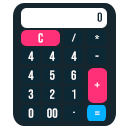
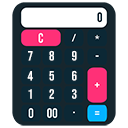
appearence adjust

diff --git a/styles.css b/styles.css
@@ -1,3 +1,12 @@
+:root {
+    --background-color: #091921;
+    --calculator-color: #0c2835;
+    --button-color: #19475c;
+    --math-button-color: #234f64;
+    --light-blue: #03b1ff;
+    --light-red: #ff3077;
+}
+
 * {
     margin: 0;
     padding: 0;
@@ -10,7 +19,29 @@ body {
     justify-content: center;
     align-items: center;
     min-height: 100vh;
-    background: #091921;
+    background: var(--background-color);
+}
+
+.exCalcLogo {
+    color: #fff;
+    display: flex;
+    align-items: center;
+    justify-content: center;
+    font-weight: 900;
+    opacity: 1;
+    background-color: var(--button-color);
+    border-radius: 5px;
+    font-family: 'Roboto', sans-serif;
+}.exCalcLogo a:hover {
+    opacity: .8;
+    transition: .2s;
+}.exCalcLogo i {
+    margin-right: 3px;
+}.exCalcLogo a {
+    opacity: .3;
+    color: #fff;
+    text-decoration: none;
+    outline: none;
 }
 
 .num {
@@ -20,17 +51,29 @@ body {
 .calculator {
     position: relative;
     display: grid;
-    background-color: #0c2835;
+    background-color: var(--calculator-color);
+    padding: 15px;
+    border-radius: 5px;
 }
 
-.calculator .value {
+.calculator .valueDiv {
     grid-column: span 4;
-    height: 100px;
+    height: 120px;
     text-align: right;
     border: none;
     outline: none;
-    padding: 15px;
+    padding: 0px;
     font-size: 18px;
+}
+
+.value {
+    height: 60px;
+    width: 240px;
+    margin-top: 15px;
+    text-align: right;
+    padding: 10px;
+    font-size: 25px;
+    border-radius: 5px;
 }
 
 .calculator span {
@@ -38,7 +81,7 @@ body {
     width: 60px;
     height: 60px;
     color: #fff;
-    background: #0c2835;
+    background: var(--button-color);
     place-items: center;
     border: 2px solid rgba(0,0,0,.1);
     font-size: 20px;
@@ -56,7 +99,9 @@ body {
 .calculator span.clear {
     grid-column: span 2;
     width: 120px;
-    background: #ff3077;
+    background: var(--light-red);
+    border-top-left-radius: 5px;
+    font-size: 25px;
 }
 
 .calculator span.plus {
@@ -65,11 +110,24 @@ body {
 }
 
 .calculator span.equal {
-    background: #03b1ff;
+    background: var(--light-blue);
+    border-bottom-right-radius: 5px;
+}
+
+.calculator span.key0 {
+    border-bottom-left-radius: 5px;
+}
+
+.calculator span.keyMult {
+    border-top-right-radius: 5px;
 }
 
 .calculator span.equal, span.plus, span.keySub, span.keyMult, span.keyDiv, span.keyDot {
     font-size: 30px;
+}
+
+span.keyDiv, span.keyMult, span.keySub, span.plus {
+    background-color: var(--math-button-color);
 }
 
 .calculator span.keyDot p {

diff --git a/index.html b/index.html
@@ -6,12 +6,22 @@
     <meta name="viewport" content="width=device-width, initial-scale=1.0">
     <link rel="stylesheet" href="styles.css">
     <title>exCalc</title>
+    <link rel="stylesheet" href="https://cdn.jsdelivr.net/gh/devicons/devicon@v2.14.0/devicon.min.css">
 </head>
 <body>
     <div>
+        
         <form class="calculator" name="calc">
+            
+            <div class="valueDiv">
+            <div class="exCalcLogo">
+                <a href="https://github.com/brunofilho1/excalc-extension" target="_blank">
+                    <i class="devicon-github-original"></i>
+                    exCalc GitHub
+                </a>
+            </div>
             <input placeholder="0" type="text" class="value" name="txt">
-
+            </div>
             <span class="num clear">c</span>
             <span class="num keyDiv">/</span>
             <span class="num keyMult"><p>*</p></span>
@@ -23,9 +33,9 @@
             <span class="num key5">5</span>
             <span class="num key6">6</span>
             <span class="num plus">+</span>
-            <span class="num key3">3</span>
-            <span class="num key2">2</span>
             <span class="num key1">1</span>
+            <span class="num key2">2</span>
+            <span class="num key3">3</span>
             <span class="num key0">0</span>
             <span class="num key00">00</span>
             <span class="num keyDot"><p>.</p></span>
